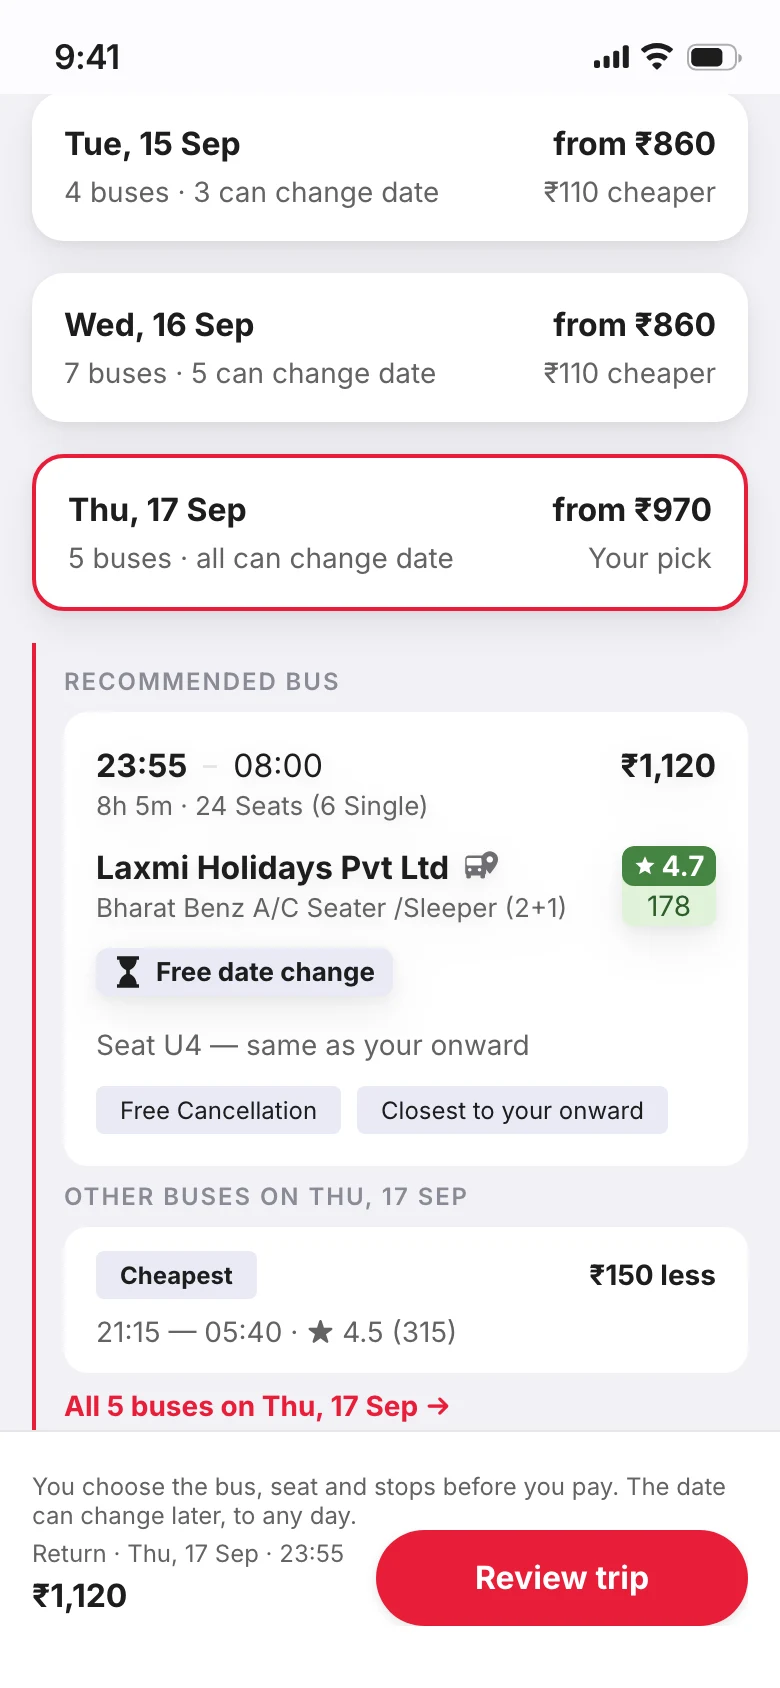
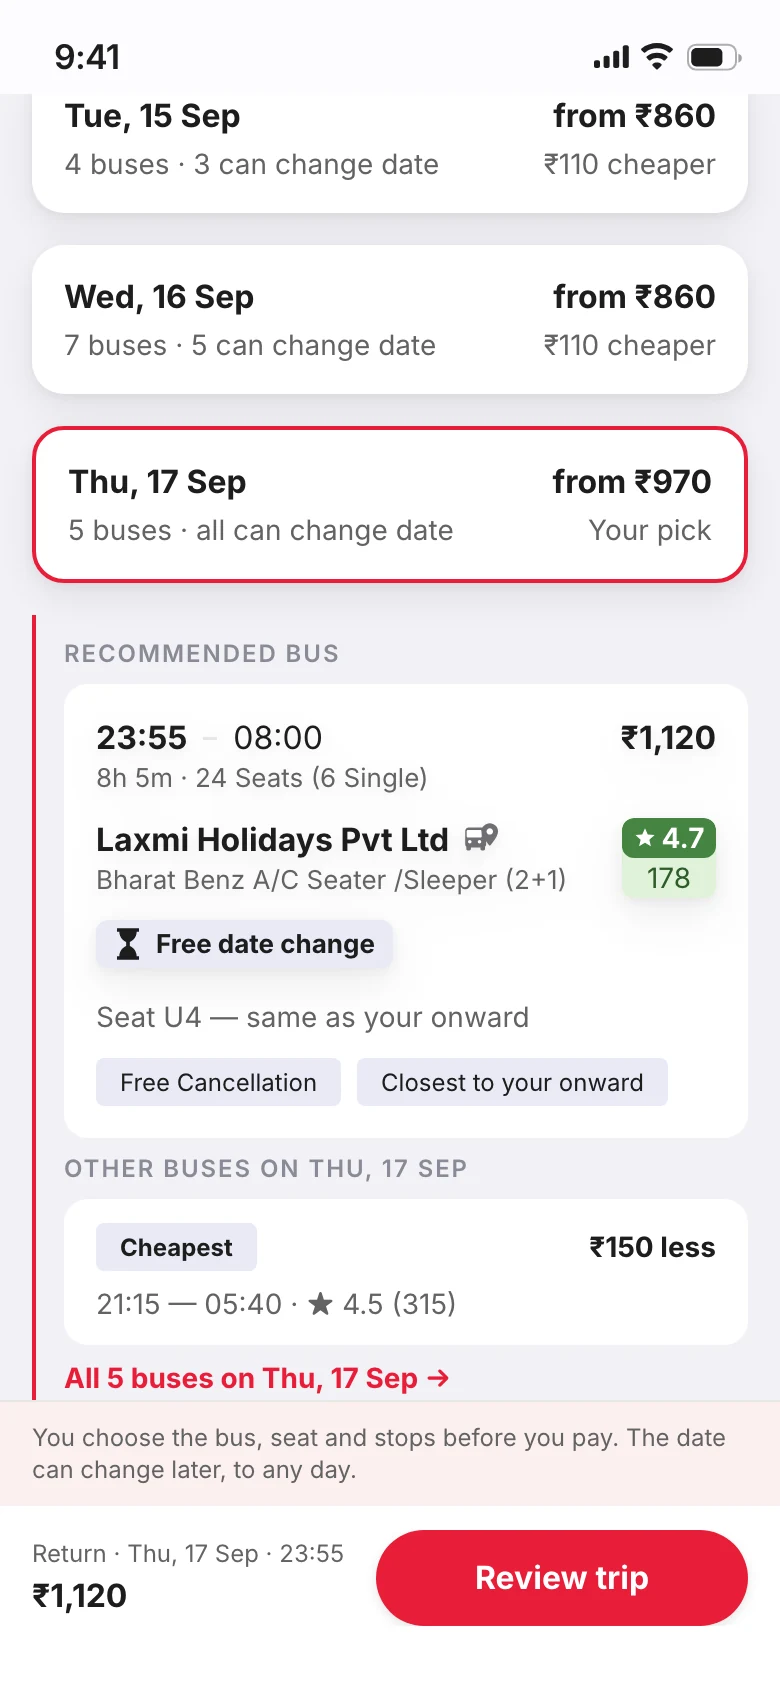
RedBus case study: day-list screens with the note as a strip above the pay bar, boxes moved to match (verified on localhost)

diff --git a/app/work/redbus/page.tsx b/app/work/redbus/page.tsx
@@ -403,8 +403,8 @@ export default function RedbusCaseStudy() {
         sub="How does she choose without comparing thirty buses? The days stay a short list, and her bus opens right under the day she picks.">
         <PhoneShot src={scr("hifi_06a")} alt="Hi-fi day list with Thu 17 Sep picked and the recommended bus open under it."
           notes={[
-            { box: [3, 5.2, 94, 31.4], title: "The days stay a fixed list", sub: "whether a day has 2 buses or 30" },
-            { box: [3.5, 37.8, 93, 46.6], title: "Her bus sits under her day", sub: "with the ones that beat it on price or rating" },
+            { box: [3, 5.2, 94, 29.7], title: "The days stay a fixed list", sub: "whether a day has 2 buses or 30" },
+            { box: [3.5, 36.1, 93, 46.6], title: "Her bus sits under her day", sub: "with the ones that beat it on price or rating" },
           ]} />
       </Beat>
 
@@ -561,9 +561,9 @@ export default function RedbusCaseStudy() {
         caption="Sai still said he'd use this over today's flow, and wouldn't tap Skip. He had struggled the most.">
         <PhoneShot src={scr("hifi_06b")} alt="The day list with Mon 21 Sep picked: its bus cannot change date, and the button reads Book a fixed date."
           notes={[
-            { box: [3, 25, 94, 13.6], title: "So I made the risk hard to miss", sub: "the day and its bus both say it can't change" },
+            { box: [3, 23.3, 94, 13.6], title: "So I made the risk hard to miss", sub: "the day and its bus both say it can't change" },
             { box: [47.5, 90, 49.5, 7], title: "The button changes", sub: "\"Book a fixed date\", not \"Review trip\"" },
-            { box: [3, 86.6, 90, 3.4], title: "It names her own answer back", sub: "\"You said you were not sure yet\"" },
+            { box: [1.5, 83.3, 97, 5.7], title: "It names her own answer back", sub: "\"You said you were not sure yet\"" },
           ]} />
       </Beat>
 

diff --git a/sidedoor-case-study/LOG.md b/sidedoor-case-study/LOG.md
@@ -3504,3 +3504,7 @@ CHANGE · 2026-09-25 · Ask Devansh on the SideDoor case study
 Changed:   The AI twin now runs on /work/sidedoor too, with its own knowledge (lib/askDevanshSidedoorKnowledge.ts): the published page text, CASE_QA, RESEARCH, BUSINESS, DESIGN_LANGUAGE, TEST_PLAN. Lines about the discarded interviews, n92 and the mentor are dropped; the prompt says two people, both sides, and no results yet.
 Because:   Devansh asked for it, same as RedBus, so recruiters can ask anything about the case study.
 Verified:  localhost with ?ask: panel opens, SideDoor chips, request sends study=sidedoor. No local Gemini key, so real answers only on Vercel.
+
+CHANGE · 2026-09-25 · RedBus case study: new day-list screens
+Changed:   hifi_06a.webp and hifi_06b.webp re-rendered at 2x from the RedBus build after the pay bar's note became a strip (RedBus LOG, same date). Annotation boxes on Scene 2 and "How I · 3" moved up 14px to follow the content; the "names her answer back" box now frames the whole strip.
+Verified:  localhost, both beats and the hero.
